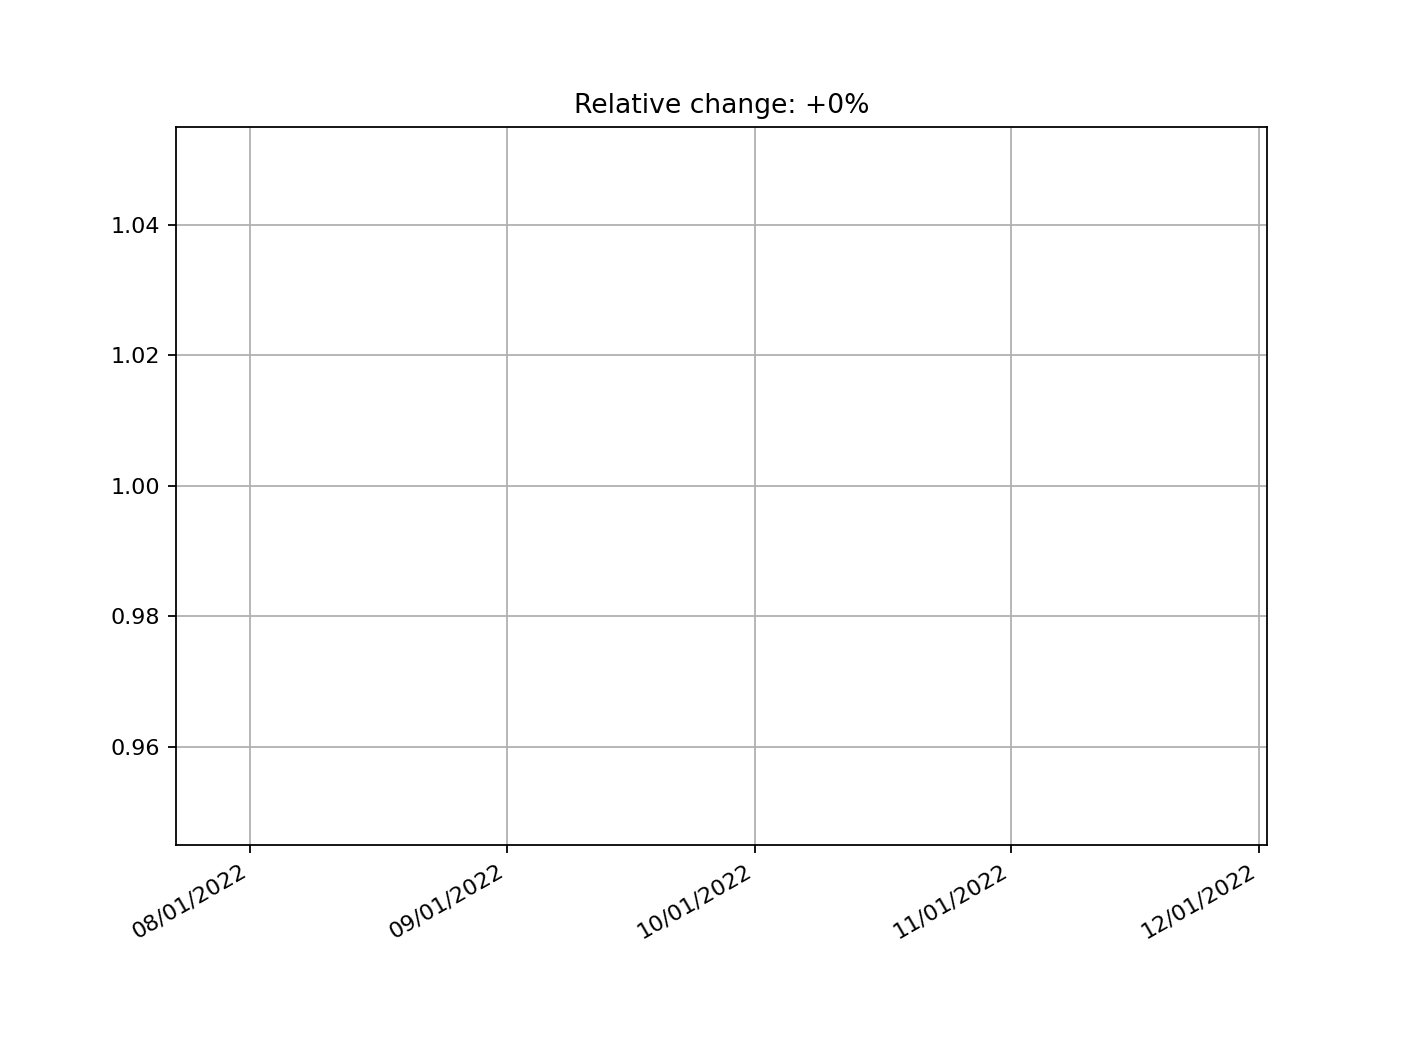
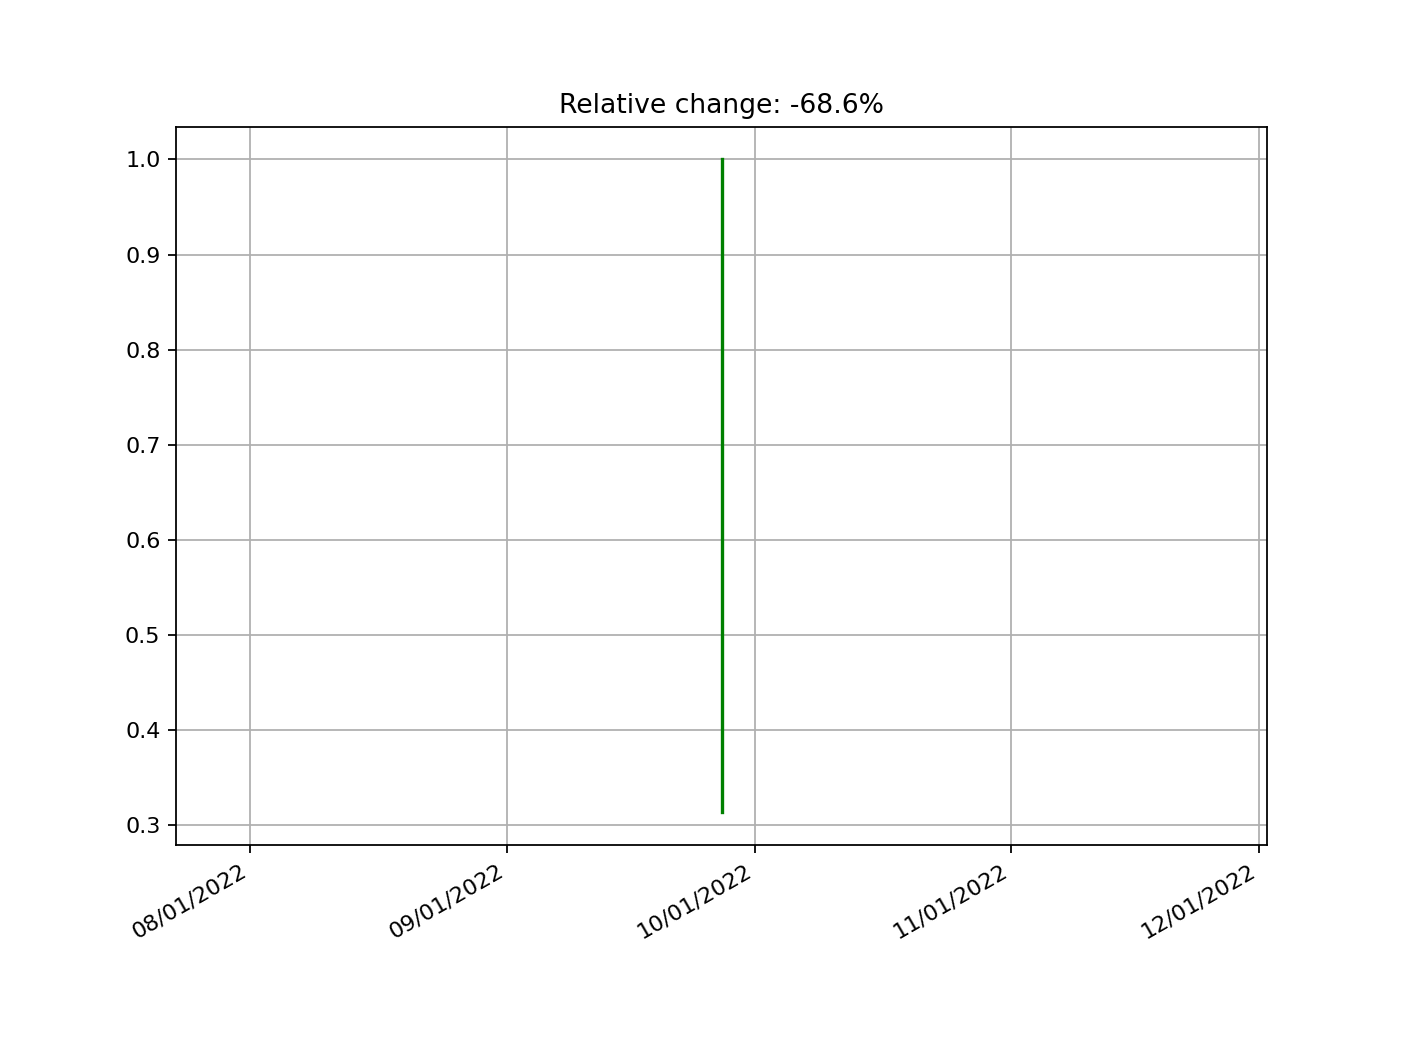
added better comments

diff --git a/func/plot_relative_change.py b/func/plot_relative_change.py
@@ -4,7 +4,7 @@ import pandas as pd
 import matplotlib.pyplot as plt
 
 def plot_relative_change_in_time():
-#vývoj portfolia v čase - částky jsou v souboru acct_value_in_time.csv
+    # plot time-dependent relative account value from acct_value_in_time.csv
     dates = []
     values = []
     rel_df = pd.read_csv('relative_change.csv')
@@ -19,14 +19,14 @@ def plot_relative_change_in_time():
     plt.figure(figsize=(8.8, 6.6),dpi=160)
 
     plt.gca().xaxis.set_major_formatter(mdates.DateFormatter('%m/%d/%Y'))
-    plt.gca().xaxis.set_major_locator(mdates.MonthLocator())    #značky na ose x měsíčně
+    plt.gca().xaxis.set_major_locator(mdates.MonthLocator())    # ticks on x-axis in months
 
     relative_change = round(rel_df.iloc[-1].iat[1] * 100 - 100, 2)
 
     if relative_change >= 0:
-        plt.title(f'Relative change: +{round(rel_df.iloc[-1].iat[1] * 100 - 100, 2)}%')
+        plt.title(f'Total profit/loss: +{round(rel_df.iloc[-1].iat[1] * 100 - 100, 2)}%')
     else:
-        plt.title(f'Relative change: {round(rel_df.iloc[-1].iat[1] * 100 - 100, 2)}%')
+        plt.title(f'Total profit/loss: {round(rel_df.iloc[-1].iat[1] * 100 - 100, 2)}%')
     plt.plot(rel_x, rel_y, color="green")
     plt.grid()
     plt.gcf().autofmt_xdate()

diff --git a/func/plot_portfolio_in_time.py b/func/plot_portfolio_in_time.py
@@ -4,7 +4,7 @@ import pandas as pd
 import matplotlib.pyplot as plt
 
 def plot_portfolio_in_time():
-#vývoj portfolia v čase - částky jsou v souboru acct_value_in_time.csv
+    #plot account value in time from acct_value_in_time.csv
     dates = []
     values = []
     df = pd.read_csv('acct_value_in_time.csv')
@@ -16,7 +16,7 @@ def plot_portfolio_in_time():
     x = [datetime.strptime(d, '%Y/%m/%d').date() for d in dates]
     y = values
 
-#vykreslí investované peníze - částky jsou v souboru money_invested.csv
+    # plot total invested values from money_invested.csv
     invested_dates = []
     invested_values = []
     df = pd.read_csv('money_invested.csv')
@@ -37,7 +37,7 @@ def plot_portfolio_in_time():
     plt.figure(figsize=(8.8, 6.6),dpi=160)
 
     plt.gca().xaxis.set_major_formatter(mdates.DateFormatter('%m/%d/%Y'))
-    plt.gca().xaxis.set_major_locator(mdates.MonthLocator())    #značky na ose x měsíčně
+    plt.gca().xaxis.set_major_locator(mdates.MonthLocator())    #ticks on x-axis in months
 
     plt.title('Account value in time')
     plt.plot(x, y)

diff --git a/main.py b/main.py
@@ -5,6 +5,7 @@ from func.update_stocks import update_stocks
 from func.print_help import print_help
 
 def main():
+    # ask for user input
     print_help()
 
     while True:
@@ -22,8 +23,12 @@ def main():
             update_stocks()
         elif (action == 'help'):
             print_help()
-        elif(action == 'q'):
+        elif(action == 'quit'):
             break
+        else:
+            print('Invalid input')
+            print("-------------------------------------------------------")
+            print_help()
 
 if __name__ == '__main__':
     main()

diff --git a/func/stock_class.py b/func/stock_class.py
@@ -9,12 +9,10 @@ class Stock:
         self.currency = currency
 
     def get_stock_info(self):
-        df_list = list()
-
         data = yf.download(self.ticker, group_by="Ticker", period='7d', progress=False)
-        # print(f"{self.ticker} data: {data}")
-        df_list.append(data)
 
+        df_list = list()
+        df_list.append(data)
         df = pd.concat(df_list)
 
         for value in df['Close'].values.tolist():

diff --git a/func/print_help.py b/func/print_help.py
@@ -4,4 +4,4 @@ def print_help():
     print("Add stock            -    \'add\'")
     print("Remove stock         -    \'remove\'")
     print("Update stock prices  -    \'update\'")
-    print("Quit                 -    \'q\'")
+    print("Quit                 -    \'quit\'")
